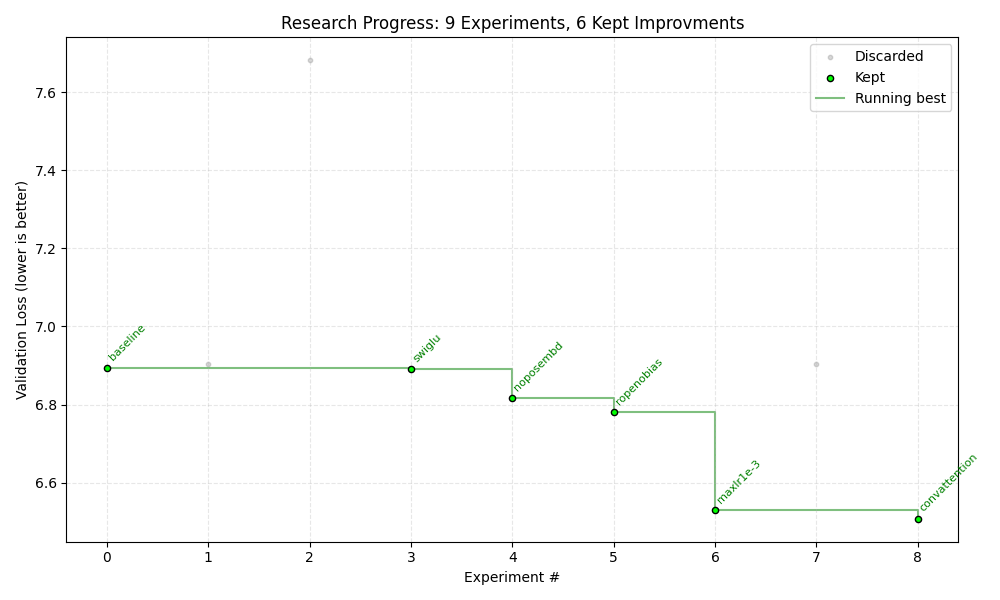
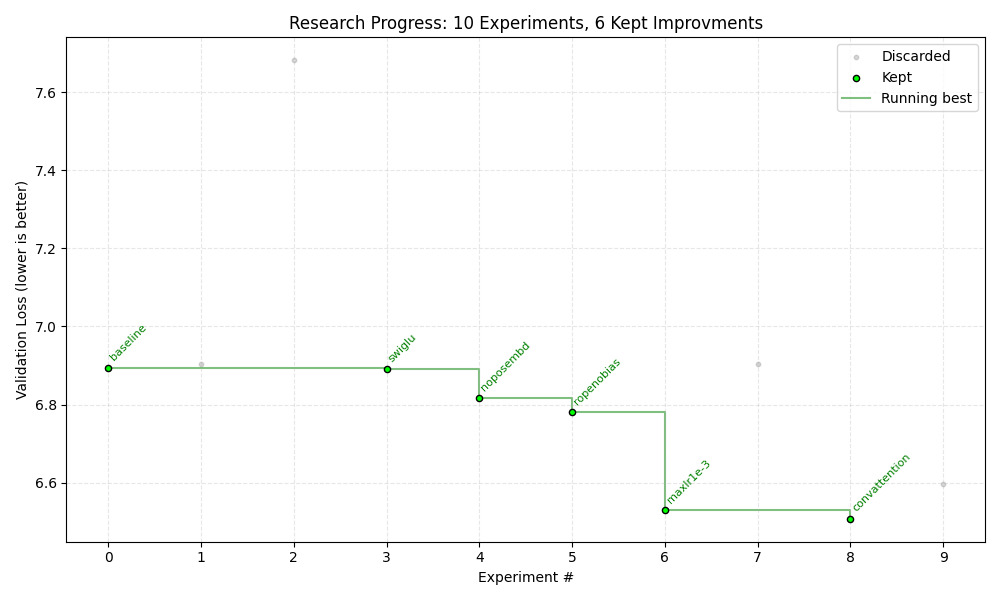
rollback convmlp

diff --git a/model.py b/model.py
@@ -45,7 +45,8 @@ class CausalSelfAttention(nn.Module):
     def __init__(self, config):
         super().__init__()
         assert config.n_embd % config.n_head == 0
-        self.l_conv = nn.Conv1d(config.n_embd, config.n_embd, kernel_size=3, groups=config.n_embd, bias=False)
+        self.kernel_size = 3
+        self.l_conv = nn.Conv1d(config.n_embd, config.n_embd, kernel_size=self.kernel_size, groups=config.n_embd, bias=False)
         self.c_attn = nn.Linear(config.n_embd, 3 * config.n_embd, bias=False)
         self.c_proj = nn.Linear(config.n_embd, config.n_embd, bias=False)
         self.c_proj.GPT_SCALE_INIT = 1
@@ -58,7 +59,7 @@ class CausalSelfAttention(nn.Module):
     def forward(self, x):
         B, T, C = x.size()
         x = x.transpose(1, 2)
-        x = F.pad(x, (2, 0))
+        x = F.pad(x, (self.kernel_size - 1, 0))
         x = self.l_conv(x)
         x = x.transpose(1, 2)
         qkv = self.c_attn(x)
@@ -79,15 +80,11 @@ class CausalSelfAttention(nn.Module):
 class MLP(nn.Module):
     def __init__(self, config):
         super().__init__()
-        self.l_conv = nn.Conv1d(config.n_embd, config.n_embd, kernel_size=3, groups=config.n_embd, bias=False)
         self.swiglu = SwiGLU(config.n_embd, 4 * config.n_embd)
         self.c_proj = nn.Linear(4 * config.n_embd, config.n_embd, bias=False)
         self.c_proj.GPT_SCALE_INIT = 1
 
     def forward(self, x):
-        x = x.transpose(1, 2)
-        x = F.pad(x, (2, 0))
-        x = self.l_conv(x).transpose(1, 2)
         x = self.swiglu(x)
         x = self.c_proj(x)
         return x
